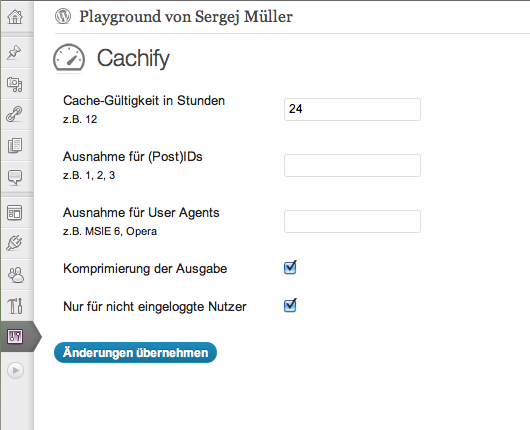
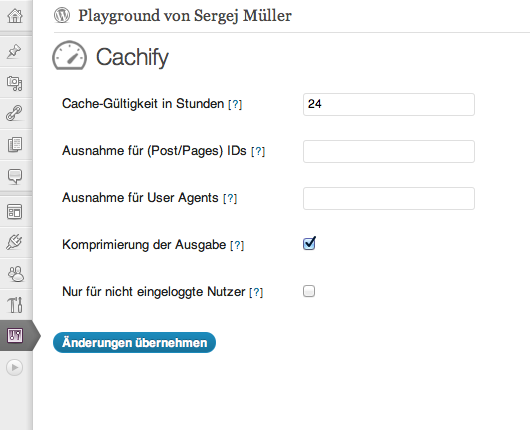
Cachify 1.1
git-svn-id: https://plugins.svn.wordpress.org/cachify/trunk@424437 b8457f37-d9ea-0310-8a92-e5e31aec5664

diff --git a/css/style.css b/css/style.css
@@ -1,1 +1,1 @@
-#icon-cachify{background:url(../img/icon32.png) no-repeat;}.wp-submenu a img[alt="Cachify"]{width:11px;height:9px;border:0;}
+#icon-cachify{background:url(../img/icon32.png) no-repeat;}.wp-submenu a img[alt="Cachify"]{width:11px;height:9px;border:0;}table.form-table.cachify th{width:220px;line-height:26px;}table.form-table.cachify th span{font-size:11px;white-space:nowrap;}table.form-table.cachify th span a{padding:0 1px;text-decoration:none;}

diff --git a/cachify.php b/cachify.php
@@ -1,11 +1,11 @@
 <?php
 /*
 Plugin Name: Cachify
-Description: Smarter Cache für WordPress. Reduziert die Anzahl der Datenbankabfragen und dynamischer Anweisungen. Minimiert die Ladezeit der Blogseiten.
+Description: Smarter Cache für WordPress. Reduziert die Anzahl der Datenbankabfragen und dynamischer Anweisungen. Minimiert Ladezeiten der Blogseiten.
 Author: Sergej M&uuml;ller
 Author URI: http://www.wpSEO.de
 Plugin URI: http://playground.ebiene.de/2652/cachify-wordpress-cache/
-Version: 1.0
+Version: 1.1
 */
 
 
@@ -38,6 +38,13 @@ __CLASS__,
 )
 );
 if ( is_admin() ) {
+add_action(
+'pre_current_active_plugins',
+array(
+__CLASS__,
+'receive_flush'
+)
+);
 add_action(
 'wpmu_new_blog',
 array(
@@ -89,13 +96,6 @@ __CLASS__,
 'edit_comment'
 )
 );
-add_action(
-'pre_current_active_plugins',
-array(
-__CLASS__,
-'receive_reset'
-)
-);
 add_filter(
 'plugin_row_meta',
 array(
@@ -111,15 +111,6 @@ array(
 __CLASS__,
 'action_links'
 )
-);
-add_filter(
-'contextual_help',
-array(
-__CLASS__,
-'contextual_help'
-),
-10,
-2
 );
 } else {
 add_action(
@@ -250,18 +241,19 @@ $data = array_merge(
 $data,
 array(
 '<a href="http://flattr.com/thing/114377/Cachify-Handliches-Cache-Plugin-fur-WordPress" target="_blank">Plugin flattern</a>',
+'<a href="https://plus.google.com/110569673423509816572" target="_blank">Auf Google+ folgen</a>',
 sprintf(
 '<a href="%s">Cache leeren</a>',
-add_query_arg('_cachify', 'reset', 'plugins.php')
+add_query_arg('_cachify', 'flush', 'plugins.php')
 )
 )
 );
 }
 return $data;
 }
-public static function receive_reset($data)
+public static function receive_flush($data)
 {
-if ( empty($_GET['_cachify']) or $_GET['_cachify'] !== 'reset' ) {
+if ( empty($_GET['_cachify']) or $_GET['_cachify'] !== 'flush' ) {
 return;
 }
 global $wpdb;
@@ -423,7 +415,7 @@ set_transient(
 self::_cache_hash(),
 array(
 'data'=> self::_sanitize_cache($data),
-'queries' => self::_page_queries(),
+'queries'=> self::_page_queries(),
 'timer'=> self::_page_timer(),
 'memory'=> self::_memory_usage(),
 'time'=> current_time('timestamp')
@@ -466,24 +458,14 @@ exit;
 }
 ob_start('Cachify::set_cache');
 }
-public static function contextual_help($data, $screen)
-{
-if ( $screen != self::$menu ) {
-return $data;
-}
-return 
-'<p><strong>Cache-Gültigkeit in Stunden</strong><br />Aufbewahrungsdauer des Cache in Stunden.</p>'.
-'<p><strong>Ausnahme für (Post/Page) IDs</strong><br />Erweiterung der Ausnahmeliste für einzelne Blogseiten. Eine Komma-separierte Liste an Post- und/oder Page-IDs, die vom Cache ausgeschlossen werden sollen.<br /><em>Beispiel: 1, 2, 3</em></p>'.
-'<p><strong>Ausnahme für User Agents</strong><br />Erweiterung der Ausnahmeliste für einzelne Browser. Komma-separierte Liste der User Agents (gerne nur der wesentliche Teil des Strings), die vom Cache ausgeschlossen werden sollen.<br /><em>Beispiel: MSIE 6, Opera</em></p>'.
-'<p><strong>Komprimierung der Ausgabe</strong><br />Komprimierung (Minification) der HTML-Ausgabe. Überflüssige Zeichen wie Umbrüche und HTML-Kommentare werden entfernt.</p>'.
-'<p><strong>Nur für nicht eingeloggte Nutzer</strong><br />In aktivierter Form sorgt die Checkbox dafür, dass alle Blogleser <em>ausgenommen eingeloggte Nutzer</em> den Cache initialisieren dürfen und die zwischengespeicherte Version einer Blogseite angezeigt bekommen. Praktisch, wenn angemeldete Blog-Autoren und Administratoren beispielsweise die integrierte Admin-Bar oder Editieren-Links im Theme eingeblendet bekommen, die gewiss nicht zum Bestandteil des Cache werden sollen. "Kein Haken" als Wert bedeutet, angemeldete Nutzer sehen identische Ausgabe wie gewöhnliche Besucher der Seite.</p>'.
-'<p><a href="http://playground.ebiene.de/2652/cachify-wordpress-cache/" target="_blank">Weitere Informationen zu Cachify</a></p>';
-}
 function add_css()
 {
+$data = get_plugin_data(__FILE__);
 wp_register_style(
 'cachify_css',
-plugins_url('css/style.css', __FILE__)
+plugins_url('css/style.css', __FILE__),
+array(),
+$data['Version']
 );
 wp_enqueue_style('cachify_css');
 }
@@ -498,6 +480,12 @@ array(
 __CLASS__,
 'options_page'
 )
+);
+}
+function help_link($anchor) {
+echo sprintf(
+'<span>[<a href="http://playground.ebiene.de/2652/cachify-wordpress-cache/#%s" target="_blank">?</a>]</span>',
+$anchor
 );
 }
 function register_settings()
@@ -535,11 +523,7 @@ Cachify
 <table class="form-table cachify">
 <tr>
 <th>
-Cache-Gültigkeit in Stunden
-<br />
-<small>
-z.B. 12
-</small>
+Cache-Gültigkeit in Stunden <?php self::help_link('cache_expires') ?>
 </th>
 <td>
 <input type="text" name="cachify[cache_expires]" value="<?php echo $options['cache_expires'] ?>" />
@@ -547,11 +531,7 @@ z.B. 12
 </tr>
 <tr>
 <th>
-Ausnahme für (Post/Pages) IDs
-<br />
-<small>
-z.B. 1, 2, 3
-</small>
+Ausnahme für (Post/Pages) IDs <?php self::help_link('without_ids') ?>
 </th>
 <td>
 <input type="text" name="cachify[without_ids]" value="<?php echo $options['without_ids'] ?>" />
@@ -559,11 +539,7 @@ z.B. 1, 2, 3
 </tr>
 <tr>
 <th>
-Ausnahme für User Agents
-<br />
-<small>
-z.B. MSIE 6, Opera
-</small>
+Ausnahme für User Agents <?php self::help_link('without_agents') ?>
 </th>
 <td>
 <input type="text" name="cachify[without_agents]" value="<?php echo $options['without_agents'] ?>" />
@@ -571,7 +547,7 @@ z.B. MSIE 6, Opera
 </tr>
 <tr>
 <th>
-Komprimierung der Ausgabe
+Komprimierung der Ausgabe <?php self::help_link('compress_html') ?>
 </th>
 <td>
 <input type="checkbox" name="cachify[compress_html]" value="1" <?php checked('1', $options['compress_html']); ?> />
@@ -579,7 +555,7 @@ Komprimierung der Ausgabe
 </tr>
 <tr>
 <th>
-Nur für nicht eingeloggte Nutzer
+Nur für nicht eingeloggte Nutzer <?php self::help_link('only_guests') ?>
 </th>
 <td>
 <input type="checkbox" name="cachify[only_guests]" value="1" <?php checked('1', $options['only_guests']); ?> />
